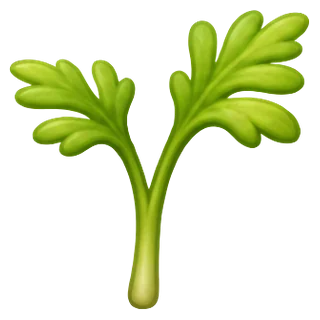
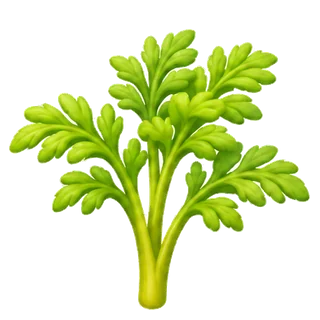
Stade intermédiaire pour 6 plantes, pousses ancrées au milieu du bac (0.15.1)
Claude-Session: https://claude.ai/code/session_018D5HKJWKwN88xpAGuhHMQJ

diff --git a/index.html b/index.html
@@ -6,13 +6,13 @@
   <title>Potager idle</title>
   <meta name="description" content="Un petit jeu idle de potager : plante, arrose, récolte, cuisine et découvre des variétés hybrides.">
   <meta name="theme-color" content="#f2f9e6" id="theme-color">
-  <link rel="manifest" href="manifest.webmanifest?v=67">
+  <link rel="manifest" href="manifest.webmanifest?v=68">
   <link rel="icon" href="icons/favicon-32.png" sizes="32x32" type="image/png">
   <link rel="icon" href="icons/favicon-64.png" sizes="64x64" type="image/png">
   <link rel="icon" href="icons/icon-192.png" sizes="192x192" type="image/png">
   <link rel="preload" href="fonts/nunito-latin.woff2" as="font" type="font/woff2" crossorigin>
   <link rel="preload" href="fonts/fredoka-latin.woff2" as="font" type="font/woff2" crossorigin>
-  <link rel="stylesheet" href="css/style.css?v=67">
+  <link rel="stylesheet" href="css/style.css?v=68">
 </head>
 <body>
 <div id="app">
@@ -41,9 +41,9 @@
 <div id="fx"></div>
 <div id="toasts" aria-live="polite"></div>
 
-<script src="js/data.js?v=67"></script>
-<script src="assets/img/manifest.js?v=67"></script>
-<script src="js/art.js?v=67"></script>
-<script src="js/game.js?v=67"></script>
+<script src="js/data.js?v=68"></script>
+<script src="assets/img/manifest.js?v=68"></script>
+<script src="js/art.js?v=68"></script>
+<script src="js/game.js?v=68"></script>
 </body>
 </html>

diff --git a/css/style.css b/css/style.css
@@ -487,3 +487,6 @@ textarea { width: 100%; min-height: 70px; border-radius: 12px; border: 1px solid
 /* Goutte : cercle serré, centré à la même hauteur que la pastille du légume */
 .plot .thirst { width: 24%; top: calc(1px + 7%); right: 1px; padding: 2.5%; box-shadow: 0 2px 5px rgba(0,0,0,.3), 0 0 0 2px #3f9bdc; }
 .plot svg.art.ripe { left: 14%; width: 72%; height: 72%; bottom: 22%; }
+/* Pousses et jeunes plants : la tige part du milieu du bac */
+.plot svg.art.sprout { left: 29%; width: 42%; height: 42%; bottom: 40%; }
+.plot svg.art.young { left: 20%; width: 60%; height: 60%; bottom: 34%; }

diff --git a/js/game.js b/js/game.js
@@ -1,7 +1,7 @@
 "use strict";
 /* Numéro de version affiché dans les Paramètres.
    À chaque mise à jour : changer APP_VERSION, le ?v= dans index.html et VERSION dans sw.js. */
-const APP_VERSION = "0.15.0";
+const APP_VERSION = "0.15.1";
 /* ---------------- Helpers ---------------- */
 const $ = s => document.querySelector(s);
 const now = () => Date.now();

diff --git a/sw.js b/sw.js
@@ -1,6 +1,6 @@
 /* Service worker de Potager idle : rend le jeu jouable hors-ligne.
    À chaque mise à jour du jeu, augmente VERSION pour que les téléphones téléchargent la nouvelle version. */
-const VERSION = "potager-v67";
+const VERSION = "potager-v68";
 const FILES = [
   "./",
   "index.html",
